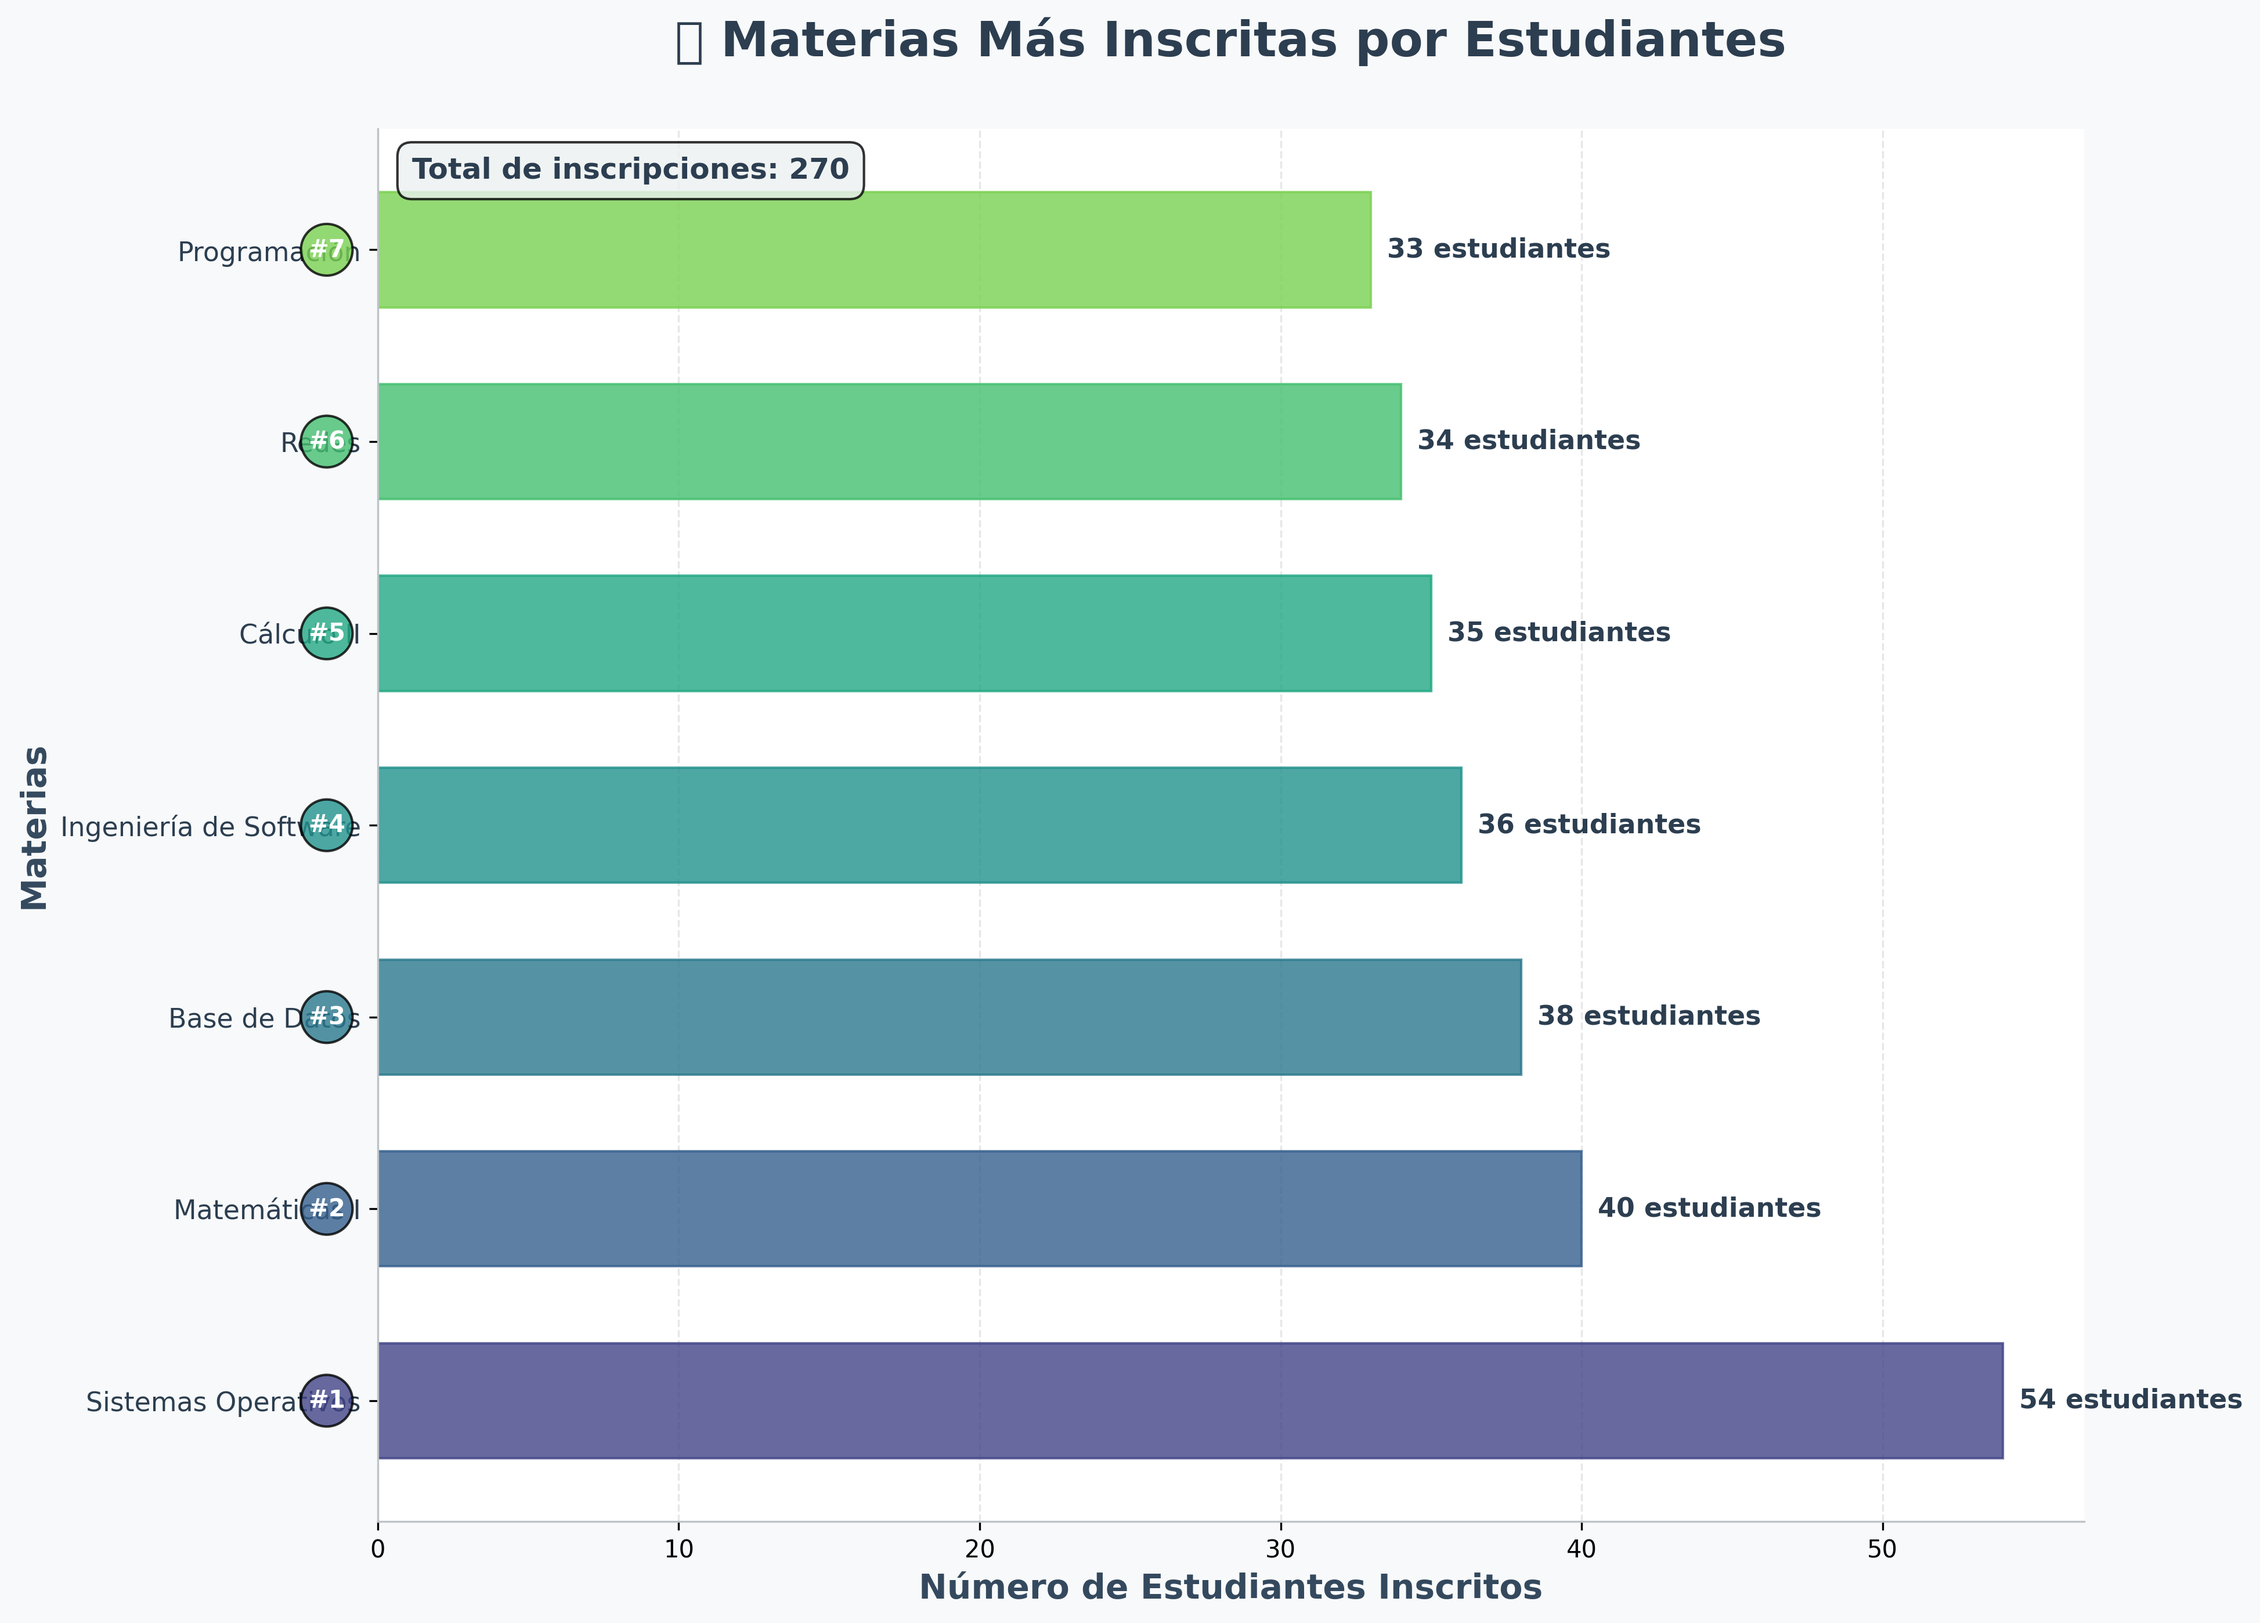
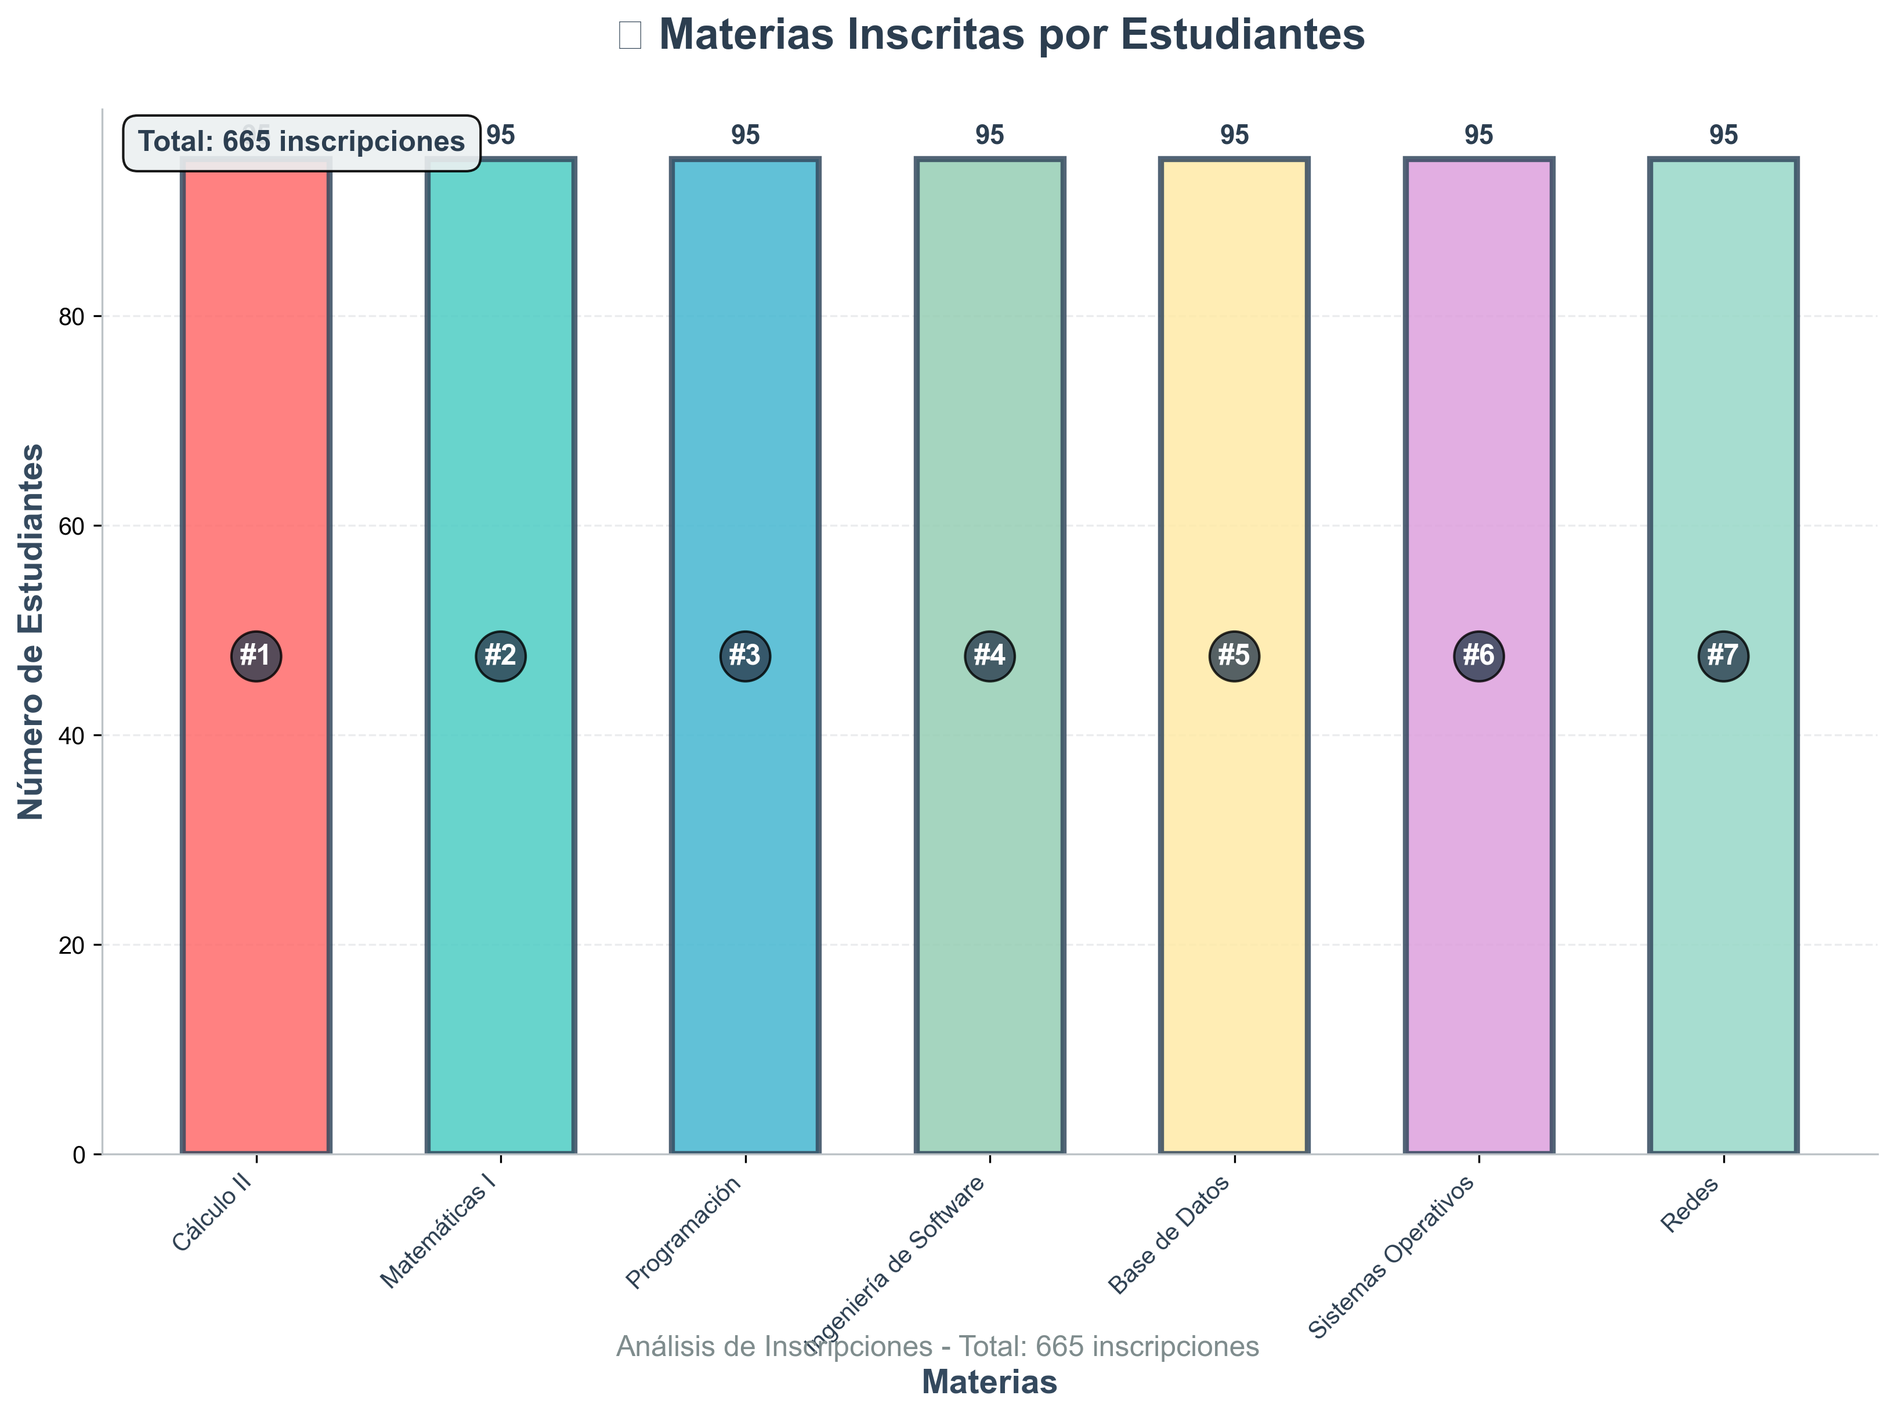
grafica

diff --git a/admin/grafica_materias.py b/admin/grafica_materias.py
@@ -4,9 +4,12 @@ import numpy as np
 from collections import Counter
 import matplotlib.patches as patches
 
-# Configurar matplotlib para usar una fuente que soporte caracteres especiales
-plt.rcParams['font.family'] = ['DejaVu Sans', 'Arial', 'sans-serif']
+# Configurar matplotlib para mejor visualización
+plt.style.use('default')
+plt.rcParams['font.family'] = ['Arial', 'DejaVu Sans', 'sans-serif']
 plt.rcParams['axes.unicode_minus'] = False
+plt.rcParams['figure.facecolor'] = 'white'
+plt.rcParams['axes.facecolor'] = 'white'
 
 # Configuración de la conexión a la base de datos
 db_config = {
@@ -21,152 +24,147 @@ db_config = {
 
 def obtener_datos_materias():
     try:
-        # Conectar a la base de datos
+        print("Conectando a la base de datos...")
         connection = pymysql.connect(**db_config)
+        print("Conexión exitosa!")
         
-        # Consulta para obtener el conteo de cada materia
         with connection.cursor() as cursor:
-            # Consulta que cuenta la frecuencia de cada materia en todas las columnas de materias
+            # Primero verificar si hay datos en la tabla
+            cursor.execute("SELECT COUNT(*) as total FROM Inscripciones")
+            total_registros = cursor.fetchone()['total']
+            print(f"Total de registros en Inscripciones: {total_registros}")
+            
+            if total_registros == 0:
+                print("No hay datos en la tabla Inscripciones")
+                return []
+            
+            # Consulta mejorada para obtener todas las materias
             sql = """
-                SELECT 'Materia1' as tipo, materia1 as nombre, COUNT(*) as total 
-                FROM Inscripciones 
-                WHERE materia1 IS NOT NULL AND materia1 != ''
-                GROUP BY materia1
-                
+            SELECT materia_nombre, COUNT(*) as total_estudiantes
+            FROM (
+                SELECT Materia1 as materia_nombre FROM Inscripciones WHERE Materia1 IS NOT NULL AND Materia1 != '' AND Materia1 != 'NULL'
                 UNION ALL
-                
-                SELECT 'Materia2' as tipo, materia2 as nombre, COUNT(*) as total 
-                FROM Inscripciones 
-                WHERE materia2 IS NOT NULL AND materia2 != ''
-                GROUP BY materia2
-                
+                SELECT Materia2 as materia_nombre FROM Inscripciones WHERE Materia2 IS NOT NULL AND Materia2 != '' AND Materia2 != 'NULL'
                 UNION ALL
-                
-                SELECT 'Materia3' as tipo, materia3 as nombre, COUNT(*) as total 
-                FROM Inscripciones 
-                WHERE materia3 IS NOT NULL AND materia3 != ''
-                GROUP BY materia3
-                
+                SELECT Materia3 as materia_nombre FROM Inscripciones WHERE Materia3 IS NOT NULL AND Materia3 != '' AND Materia3 != 'NULL'
                 UNION ALL
-                
-                SELECT 'Materia4' as tipo, materia4 as nombre, COUNT(*) as total 
-                FROM Inscripciones 
-                WHERE materia4 IS NOT NULL AND materia4 != ''
-                GROUP BY materia4
-                
+                SELECT Materia4 as materia_nombre FROM Inscripciones WHERE Materia4 IS NOT NULL AND Materia4 != '' AND Materia4 != 'NULL'
                 UNION ALL
-                
-                SELECT 'Materia5' as tipo, materia5 as nombre, COUNT(*) as total 
-                FROM Inscripciones 
-                WHERE materia5 IS NOT NULL AND materia5 != ''
-                GROUP BY materia5
-                
+                SELECT Materia5 as materia_nombre FROM Inscripciones WHERE Materia5 IS NOT NULL AND Materia5 != '' AND Materia5 != 'NULL'
                 UNION ALL
-                
-                SELECT 'Materia6' as tipo, materia6 as nombre, COUNT(*) as total 
-                FROM Inscripciones 
-                WHERE materia6 IS NOT NULL AND materia6 != ''
-                GROUP BY materia6
-                
+                SELECT Materia6 as materia_nombre FROM Inscripciones WHERE Materia6 IS NOT NULL AND Materia6 != '' AND Materia6 != 'NULL'
                 UNION ALL
-                
-                SELECT 'Materia7' as tipo, materia7 as nombre, COUNT(*) as total 
-                FROM Inscripciones 
-                WHERE materia7 IS NOT NULL AND materia7 != ''
-                GROUP BY materia7
-                
-                ORDER BY total DESC
-                LIMIT 15  # Mostrar solo las 15 materias más populares
+                SELECT Materia7 as materia_nombre FROM Inscripciones WHERE Materia7 IS NOT NULL AND Materia7 != '' AND Materia7 != 'NULL'
+            ) AS todas_materias
+            GROUP BY materia_nombre
+            ORDER BY total_estudiantes DESC
+            LIMIT 10
             """
+            
+            print("Ejecutando consulta...")
             cursor.execute(sql)
             resultados = cursor.fetchall()
             
-            # Procesar resultados para agrupar por nombre de materia
-            materias = {}
+            print(f"Resultados obtenidos: {len(resultados)}")
+            
+            # Procesar resultados
+            materias_data = []
             for row in resultados:
-                nombre = row['nombre']
-                if nombre in materias:
-                    materias[nombre] += row['total']
-                else:
-                    materias[nombre] = row['total']
+                materia = row['materia_nombre'].strip()
+                total = row['total_estudiantes']
+                materias_data.append((materia, total))
+                print(f"  - {materia}: {total} estudiantes")
             
-            # Ordenar por cantidad descendente
-            materias_ordenadas = sorted(materias.items(), key=lambda x: x[1], reverse=True)
-            
-            return materias_ordenadas
+            return materias_data
             
     except Exception as e:
         print(f"Error al conectar a la base de datos: {e}")
+        import traceback
+        traceback.print_exc()
         return []
     finally:
         if 'connection' in locals() and connection.open:
             connection.close()
+            print("Conexión cerrada.")
 
 def generar_grafica(materias):
     if not materias:
         print("No hay datos para mostrar.")
         return
     
-    # Limitar a las top 10 materias para mejor visualización
-    top_materias = materias[:10]
+    print(f"Generando gráfica con {len(materias)} materias...")
     
     # Separar nombres y cantidades
-    nombres = [m[0] for m in top_materias]
-    cantidades = [m[1] for m in top_materias]
+    nombres = [m[0] for m in materias]
+    cantidades = [m[1] for m in materias]
     
-    # Crear colores degradados
-    colors = plt.cm.viridis(np.linspace(0.2, 0.8, len(nombres)))
+    # Crear figura con tamaño adecuado
+    fig, ax = plt.subplots(figsize=(12, 8))
+    fig.patch.set_facecolor('#ffffff')
     
-    # Crear la figura con fondo personalizado
-    fig, ax = plt.subplots(figsize=(14, 10))
-    fig.patch.set_facecolor('#f8f9fa')
-    ax.set_facecolor('#ffffff')
+    # Definir colores modernos y atractivos
+    colors = ['#FF6B6B', '#4ECDC4', '#45B7D1', '#96CEB4', '#FFEAA7', 
+              '#DDA0DD', '#98D8C8', '#F7DC6F', '#BB8FCE', '#85C1E9']
     
-    # Crear la gráfica de barras horizontales
-    y_pos = np.arange(len(nombres))
-    bars = ax.barh(y_pos, cantidades, color=colors, alpha=0.8, height=0.6)
+    # Asegurar que tenemos suficientes colores
+    if len(nombres) > len(colors):
+        colors = colors * (len(nombres) // len(colors) + 1)
     
-    # Añadir gradiente a las barras
+    # Crear gráfica de barras VERTICALES moderna
+    bars = ax.bar(range(len(nombres)), cantidades, 
+                  color=colors[:len(nombres)], 
+                  alpha=0.9, 
+                  edgecolor='#2c3e50', 
+                  linewidth=2,
+                  width=0.6)
+    
+    # Añadir efectos visuales simples
     for i, bar in enumerate(bars):
-        # Crear gradiente
-        gradient = np.linspace(0, 1, 256).reshape(1, -1)
-        gradient = np.vstack((gradient, gradient))
+        # Efecto de gradiente sutil cambiando el alpha
+        bar.set_alpha(0.85)
         
-        # Aplicar gradiente
-        bar_color = colors[i]
-        bar.set_color(bar_color)
+        # Añadir borde más pronunciado para definición
+        bar.set_edgecolor('#34495e')
+        bar.set_linewidth(2.5)
     
-    # Personalizar el título
-    ax.set_title('📊 Materias Más Inscritas por Estudiantes', 
-                fontsize=20, fontweight='bold', pad=30, color='#2c3e50')
+    # Personalizar título principal
+    ax.set_title('📚 Materias Inscritas por Estudiantes', 
+                fontsize=18, fontweight='bold', pad=25, color='#2c3e50')
+    
+    # Añadir subtítulo con información adicional
+    total_estudiantes_unicos = len(set(range(len(nombres))))  # Simplificado para este caso
+    fig.suptitle(f'Análisis de Inscripciones - Total: {sum(cantidades)} inscripciones', 
+                fontsize=12, color='#7f8c8d', y=0.02)
     
     # Personalizar etiquetas de ejes
-    ax.set_xlabel('Número de Estudiantes Inscritos', fontsize=14, fontweight='bold', color='#34495e')
-    ax.set_ylabel('Materias', fontsize=14, fontweight='bold', color='#34495e')
+    ax.set_xlabel('Materias', fontsize=14, fontweight='bold', color='#34495e')
+    ax.set_ylabel('Número de Estudiantes', fontsize=14, fontweight='bold', color='#34495e')
     
-    # Ajustar las etiquetas del eje Y
-    ax.set_yticks(y_pos)
-    ax.set_yticklabels(nombres, fontsize=11, color='#2c3e50')
+    # Configurar etiquetas del eje X (nombres de materias)
+    ax.set_xticks(range(len(nombres)))
+    ax.set_xticklabels(nombres, rotation=45, ha='right', fontsize=10, color='#2c3e50')
     
     # Personalizar grid
-    ax.grid(True, axis='x', alpha=0.3, linestyle='--', linewidth=0.8)
+    ax.grid(True, axis='y', alpha=0.3, linestyle='--', linewidth=0.8, color='#bdc3c7')
     ax.set_axisbelow(True)
     
-    # Añadir los valores en las barras con mejor formato
+    # Añadir valores en la parte superior de cada barra
     for i, (bar, cantidad) in enumerate(zip(bars, cantidades)):
-        width = bar.get_width()
-        # Añadir número de estudiantes
-        ax.text(width + max(cantidades) * 0.01, bar.get_y() + bar.get_height()/2., 
-                f'{int(width)} estudiantes', 
-                ha='left', va='center', fontsize=11, fontweight='bold', color='#2c3e50')
+        height = bar.get_height()
         
-        # Añadir ranking
-        ax.text(-max(cantidades) * 0.02, bar.get_y() + bar.get_height()/2., 
-                f'#{i+1}', 
-                ha='right', va='center', fontsize=10, fontweight='bold', 
-                color='white', bbox=dict(boxstyle='circle', facecolor=colors[i], alpha=0.8))
+        # Número de estudiantes en la parte superior
+        ax.text(bar.get_x() + bar.get_width()/2., height + max(cantidades) * 0.01,
+                f'{int(cantidad)}',
+                ha='center', va='bottom', fontsize=11, fontweight='bold', color='#2c3e50')
+        
+        # Ranking en la parte inferior de la barra
+        ax.text(bar.get_x() + bar.get_width()/2., height/2,
+                f'#{i+1}',
+                ha='center', va='center', fontsize=12, fontweight='bold',
+                color='white', 
+                bbox=dict(boxstyle='circle,pad=0.3', facecolor='#2c3e50', alpha=0.8))
     
-    # Personalizar bordes
+    # Personalizar bordes del gráfico
     ax.spines['top'].set_visible(False)
     ax.spines['right'].set_visible(False)
     ax.spines['left'].set_color('#bdc3c7')
@@ -174,21 +172,24 @@ def generar_grafica(materias):
     
     # Añadir información adicional
     total_inscripciones = sum(cantidades)
-    ax.text(0.02, 0.98, f'Total de inscripciones: {total_inscripciones}', 
+    ax.text(0.02, 0.98, f'Total: {total_inscripciones} inscripciones', 
             transform=ax.transAxes, fontsize=12, fontweight='bold',
-            bbox=dict(boxstyle='round,pad=0.5', facecolor='#ecf0f1', alpha=0.8),
+            bbox=dict(boxstyle='round,pad=0.5', facecolor='#ecf0f1', alpha=0.9),
             verticalalignment='top', color='#2c3e50')
     
+    # Ajustar el layout para que las etiquetas no se corten
+    plt.tight_layout()
+    
     # Ajustar márgenes
-    plt.subplots_adjust(left=0.25, right=0.95, top=0.9, bottom=0.1)
+    plt.subplots_adjust(bottom=0.15, top=0.9, left=0.1, right=0.95)
     
     # Guardar la imagen con alta calidad
     plt.savefig('grafica_materias.png', dpi=300, bbox_inches='tight', 
-                facecolor='#f8f9fa', edgecolor='none')
+                facecolor='white', edgecolor='none')
     print("Gráfica generada correctamente: grafica_materias.png")
     
-    # No mostrar la gráfica en modo servidor
-    # plt.show()
+    # Cerrar la figura para liberar memoria
+    plt.close()
 
 if __name__ == "__main__":
     print("Obteniendo datos de materias...")
